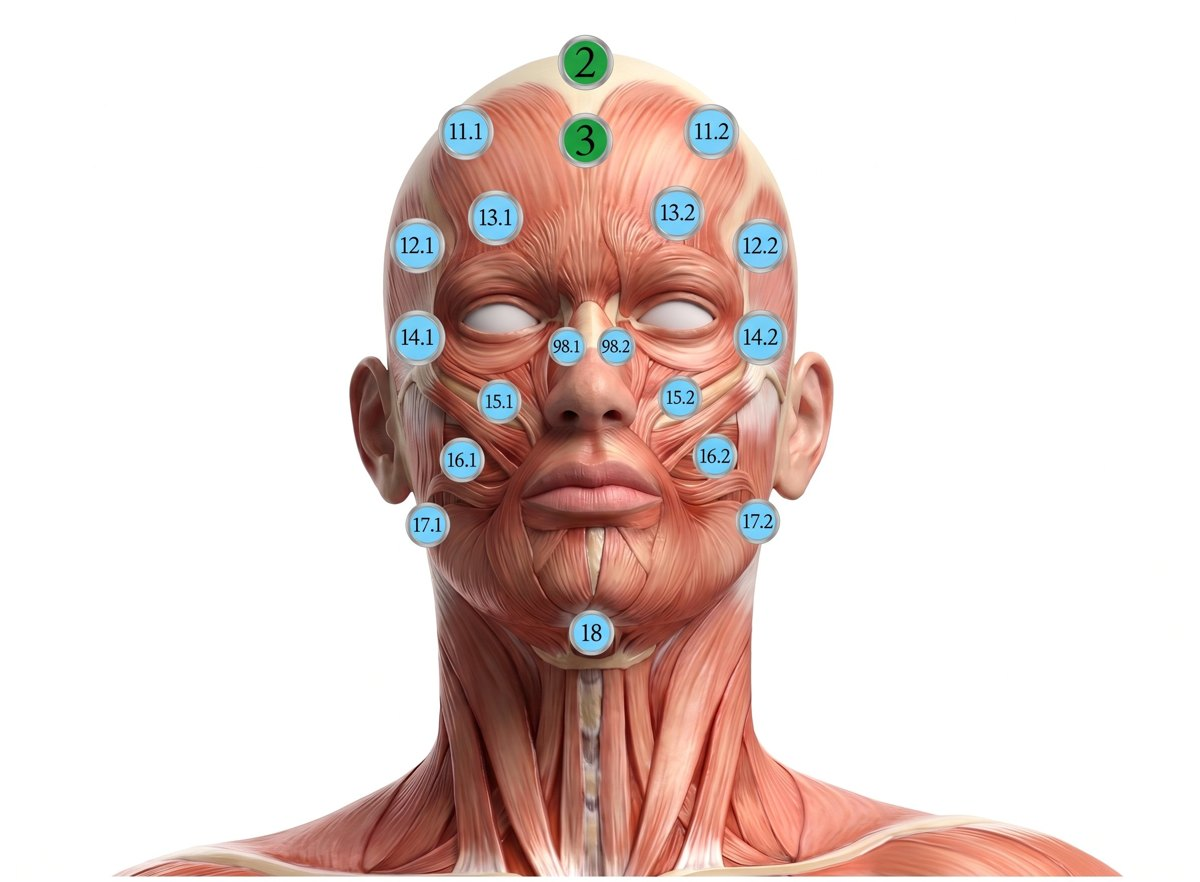
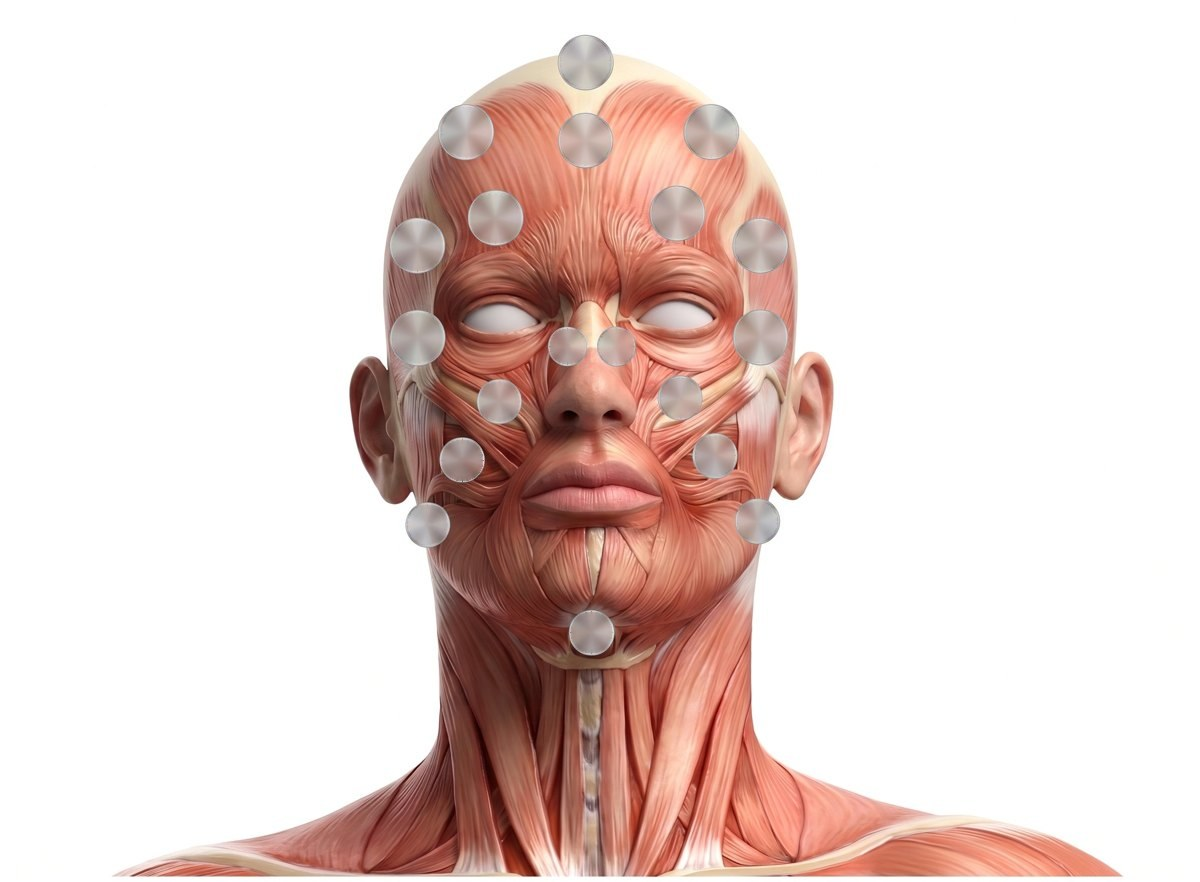
Tracker v2.2.0: clean body images (Telea inpainting removed printed numbers); app now draws numbered badges itself so hidden points vanish completely

diff --git a/hijama-tracker/index.html b/hijama-tracker/index.html
@@ -45,16 +45,17 @@ th{background:#F4FAF5;font-weight:900}
 .seg{display:flex;gap:8px;justify-content:center;margin-bottom:12px;flex-wrap:wrap}
 .seg button{border:1.5px solid var(--line);background:#fff;border-radius:999px;padding:8px 20px;font-weight:800}
 .seg button.on{background:var(--neon);border-color:var(--neon)}
-.mapstage{position:relative;max-width:430px;margin:0 auto;background:#fff;border:1px solid var(--line);border-radius:18px;overflow:hidden}
+.mapstage{position:relative;max-width:430px;margin:0 auto;background:#fff;border:1px solid var(--line);border-radius:18px;overflow:hidden;container-type:inline-size}
 .mapstage img{width:100%;display:block}
 .bdg{position:absolute;transform:translate(-50%,-50%);width:27px;height:27px;border-radius:50%;border:2px solid #fff;background:rgba(20,32,26,.55);color:#fff;font-size:10.5px;font-weight:900;display:grid;place-items:center;cursor:pointer;box-shadow:0 1px 5px rgba(0,0,0,.35);transition:.15s;padding:0;line-height:1}
 .bdg:hover{background:var(--green);transform:translate(-50%,-50%) scale(1.15)}
 .bdg.sel{background:var(--neon);color:#06280F;border-color:#0B3D1E;transform:translate(-50%,-50%) scale(1.18)}
 .bdg.small{font-size:8.5px}
 .mapstage.wide{max-width:760px}
-.hot{position:absolute;transform:translate(-50%,-50%);aspect-ratio:1;height:auto;border-radius:50%;border:2px solid rgba(255,255,255,.95);background:rgba(20,32,26,.08);cursor:pointer;padding:0;box-shadow:0 1px 5px rgba(0,0,0,.3);transition:.15s}
-.hot:hover{border-color:var(--neon);background:rgba(30,215,118,.25)}
-.hot.sel{background:rgba(30,215,118,.55);border-color:#0B3D1E;box-shadow:0 0 0 3px rgba(30,215,118,.45)}
+.hot{position:absolute;transform:translate(-50%,-50%);aspect-ratio:1;height:auto;border-radius:50%;border:2px solid #B8C4CC;background:rgb(135,200,235);color:#0A120F;font-weight:800;line-height:1;display:flex;align-items:center;justify-content:center;cursor:pointer;padding:0;box-shadow:0 1px 5px rgba(0,0,0,.3);transition:.15s}
+.hot:hover{border-color:var(--neon)}
+.hot.prop{background:#2ECC71}
+.hot.sel{background:#1ED760;border-color:#0B3D1E;box-shadow:0 0 0 3px rgba(30,215,118,.45)}
 .dz{display:flex;gap:8px;flex-wrap:wrap}
 .dz button{border:1.5px solid var(--line);background:#fff;border-radius:999px;padding:7px 14px;font-weight:700;font-size:.9rem}
 .dz button:hover{border-color:var(--green);color:var(--green)}
@@ -219,7 +220,7 @@ footer{background:var(--dark);color:#A9BFAF;padding:18px;text-align:center;font-
 <footer>متتبّع الحجامة الاحترافي — منتج من زهير محرز / بيت الوقاية · البيانات ديالك كتبقى عندك، في جهازك</footer>
 
 <script>
-var APP_VERSION='2.1.3';
+var APP_VERSION='2.2.0';
 var LS={lic:'ht2_lic',clients:'ht2_clients',sessions:'ht2_sessions',pin:'ht2_pin'};
 function load(k,d){try{var v=localStorage.getItem(k);return v?JSON.parse(v):d}catch(e){return d}}
 function save(k,v){localStorage.setItem(k,JSON.stringify(v))}
@@ -358,7 +359,8 @@ st.classList.toggle('wide',view==='limbs');
 document.getElementById('show-all-btn').style.display=onlySel?'':'none';
 var shown=HOT[view].filter(function(p){return !onlySel||isSel(p[0])});
 var badges=shown.map(function(p){var sel=isSel(p[0]);
-return '<button class="hot'+(sel?' sel':'')+'" style="left:'+p[1]+'%;top:'+p[2]+'%;width:'+p[3]+'%" onclick="togglePt(\''+p[0]+'\')" aria-label="موضع '+p[0]+'"></button>'}).join('');
+var diam=p[3]*1.2,fs=(diam*(p[0].length<=2?0.42:0.33)).toFixed(2);
+return '<button class="hot'+(sel?' sel':'')+(SUNNAH.indexOf(p[0])>-1?' prop':'')+'" style="left:'+p[1]+'%;top:'+p[2]+'%;width:'+diam+'%;font-size:'+fs+'cqw" onclick="togglePt(\''+p[0]+'\')" aria-label="موضع '+p[0]+'">'+esc(p[0])+'</button>'}).join('');
 var note=(onlySel&&!shown.length)?'<p class="note" style="text-align:center">ما كاين حتى موضع مختار في هاد العرض — بدّل العرض (ظهر/أمام/وجه/أطراف) باش تشوف النقط المختارة.</p>':'';
 st.innerHTML='<img src="assets/map2-'+view+'.jpg" alt="خريطة المواضع">'+badges+note;
 renderPtList()}
